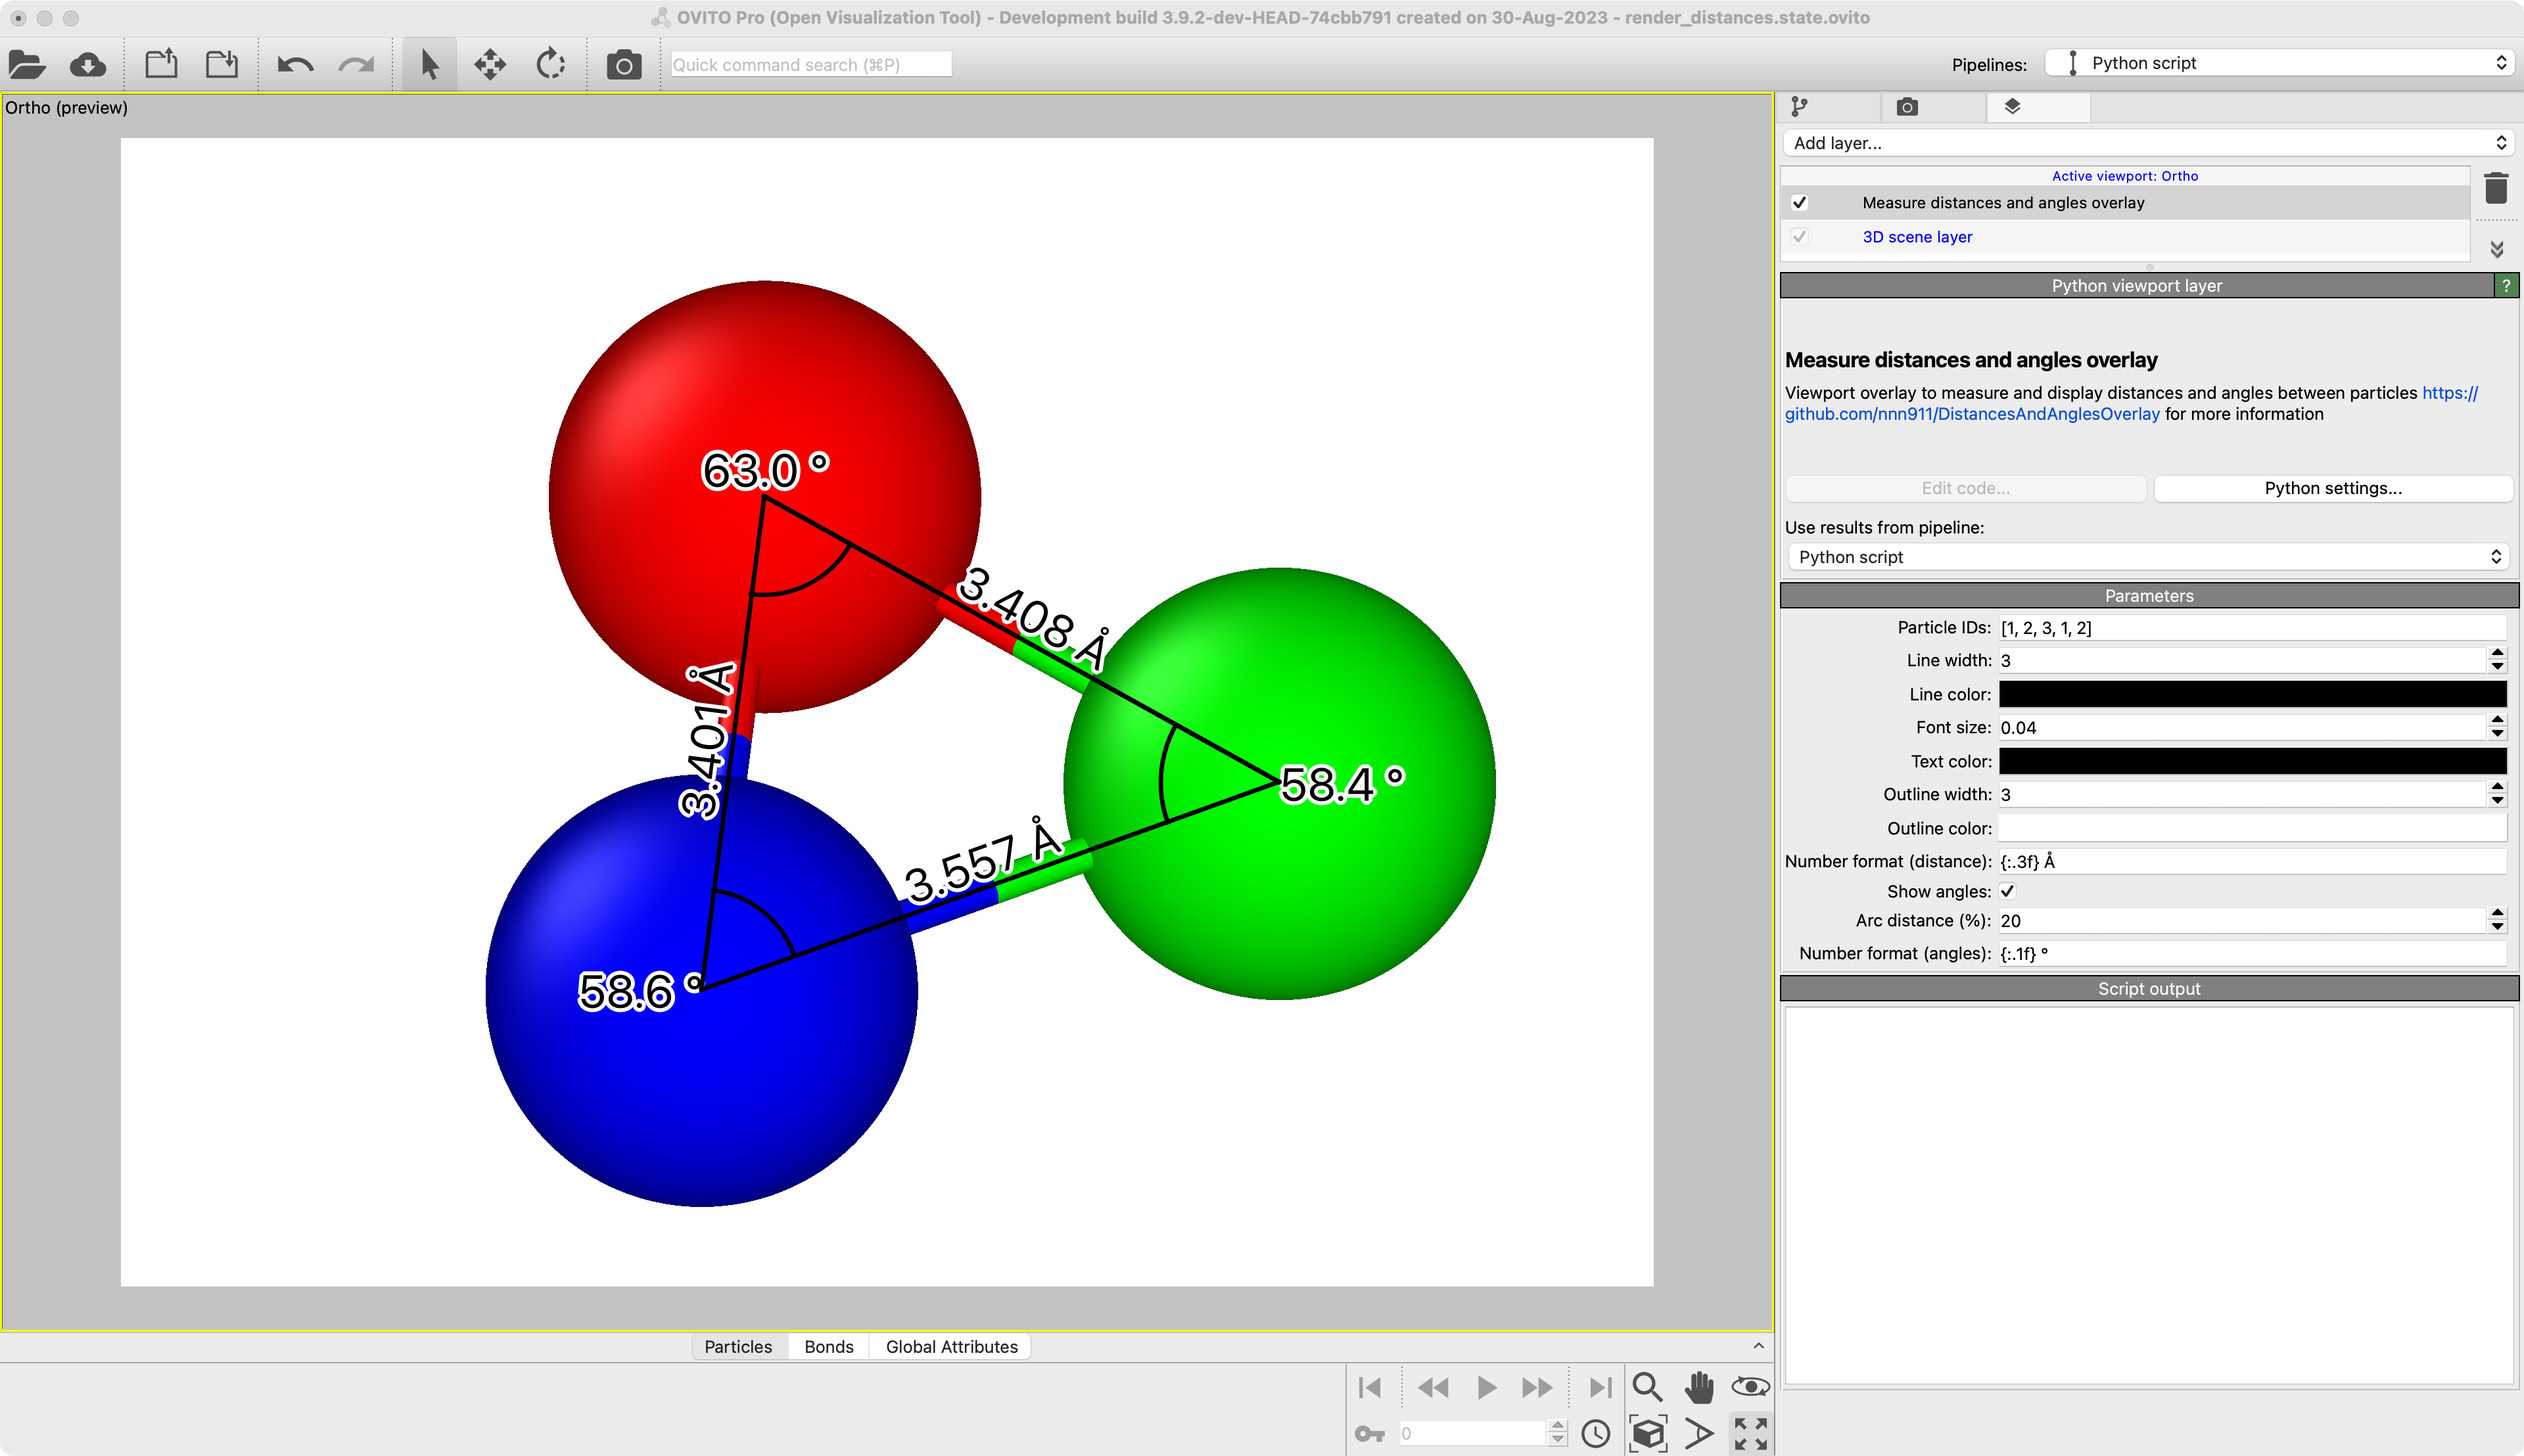
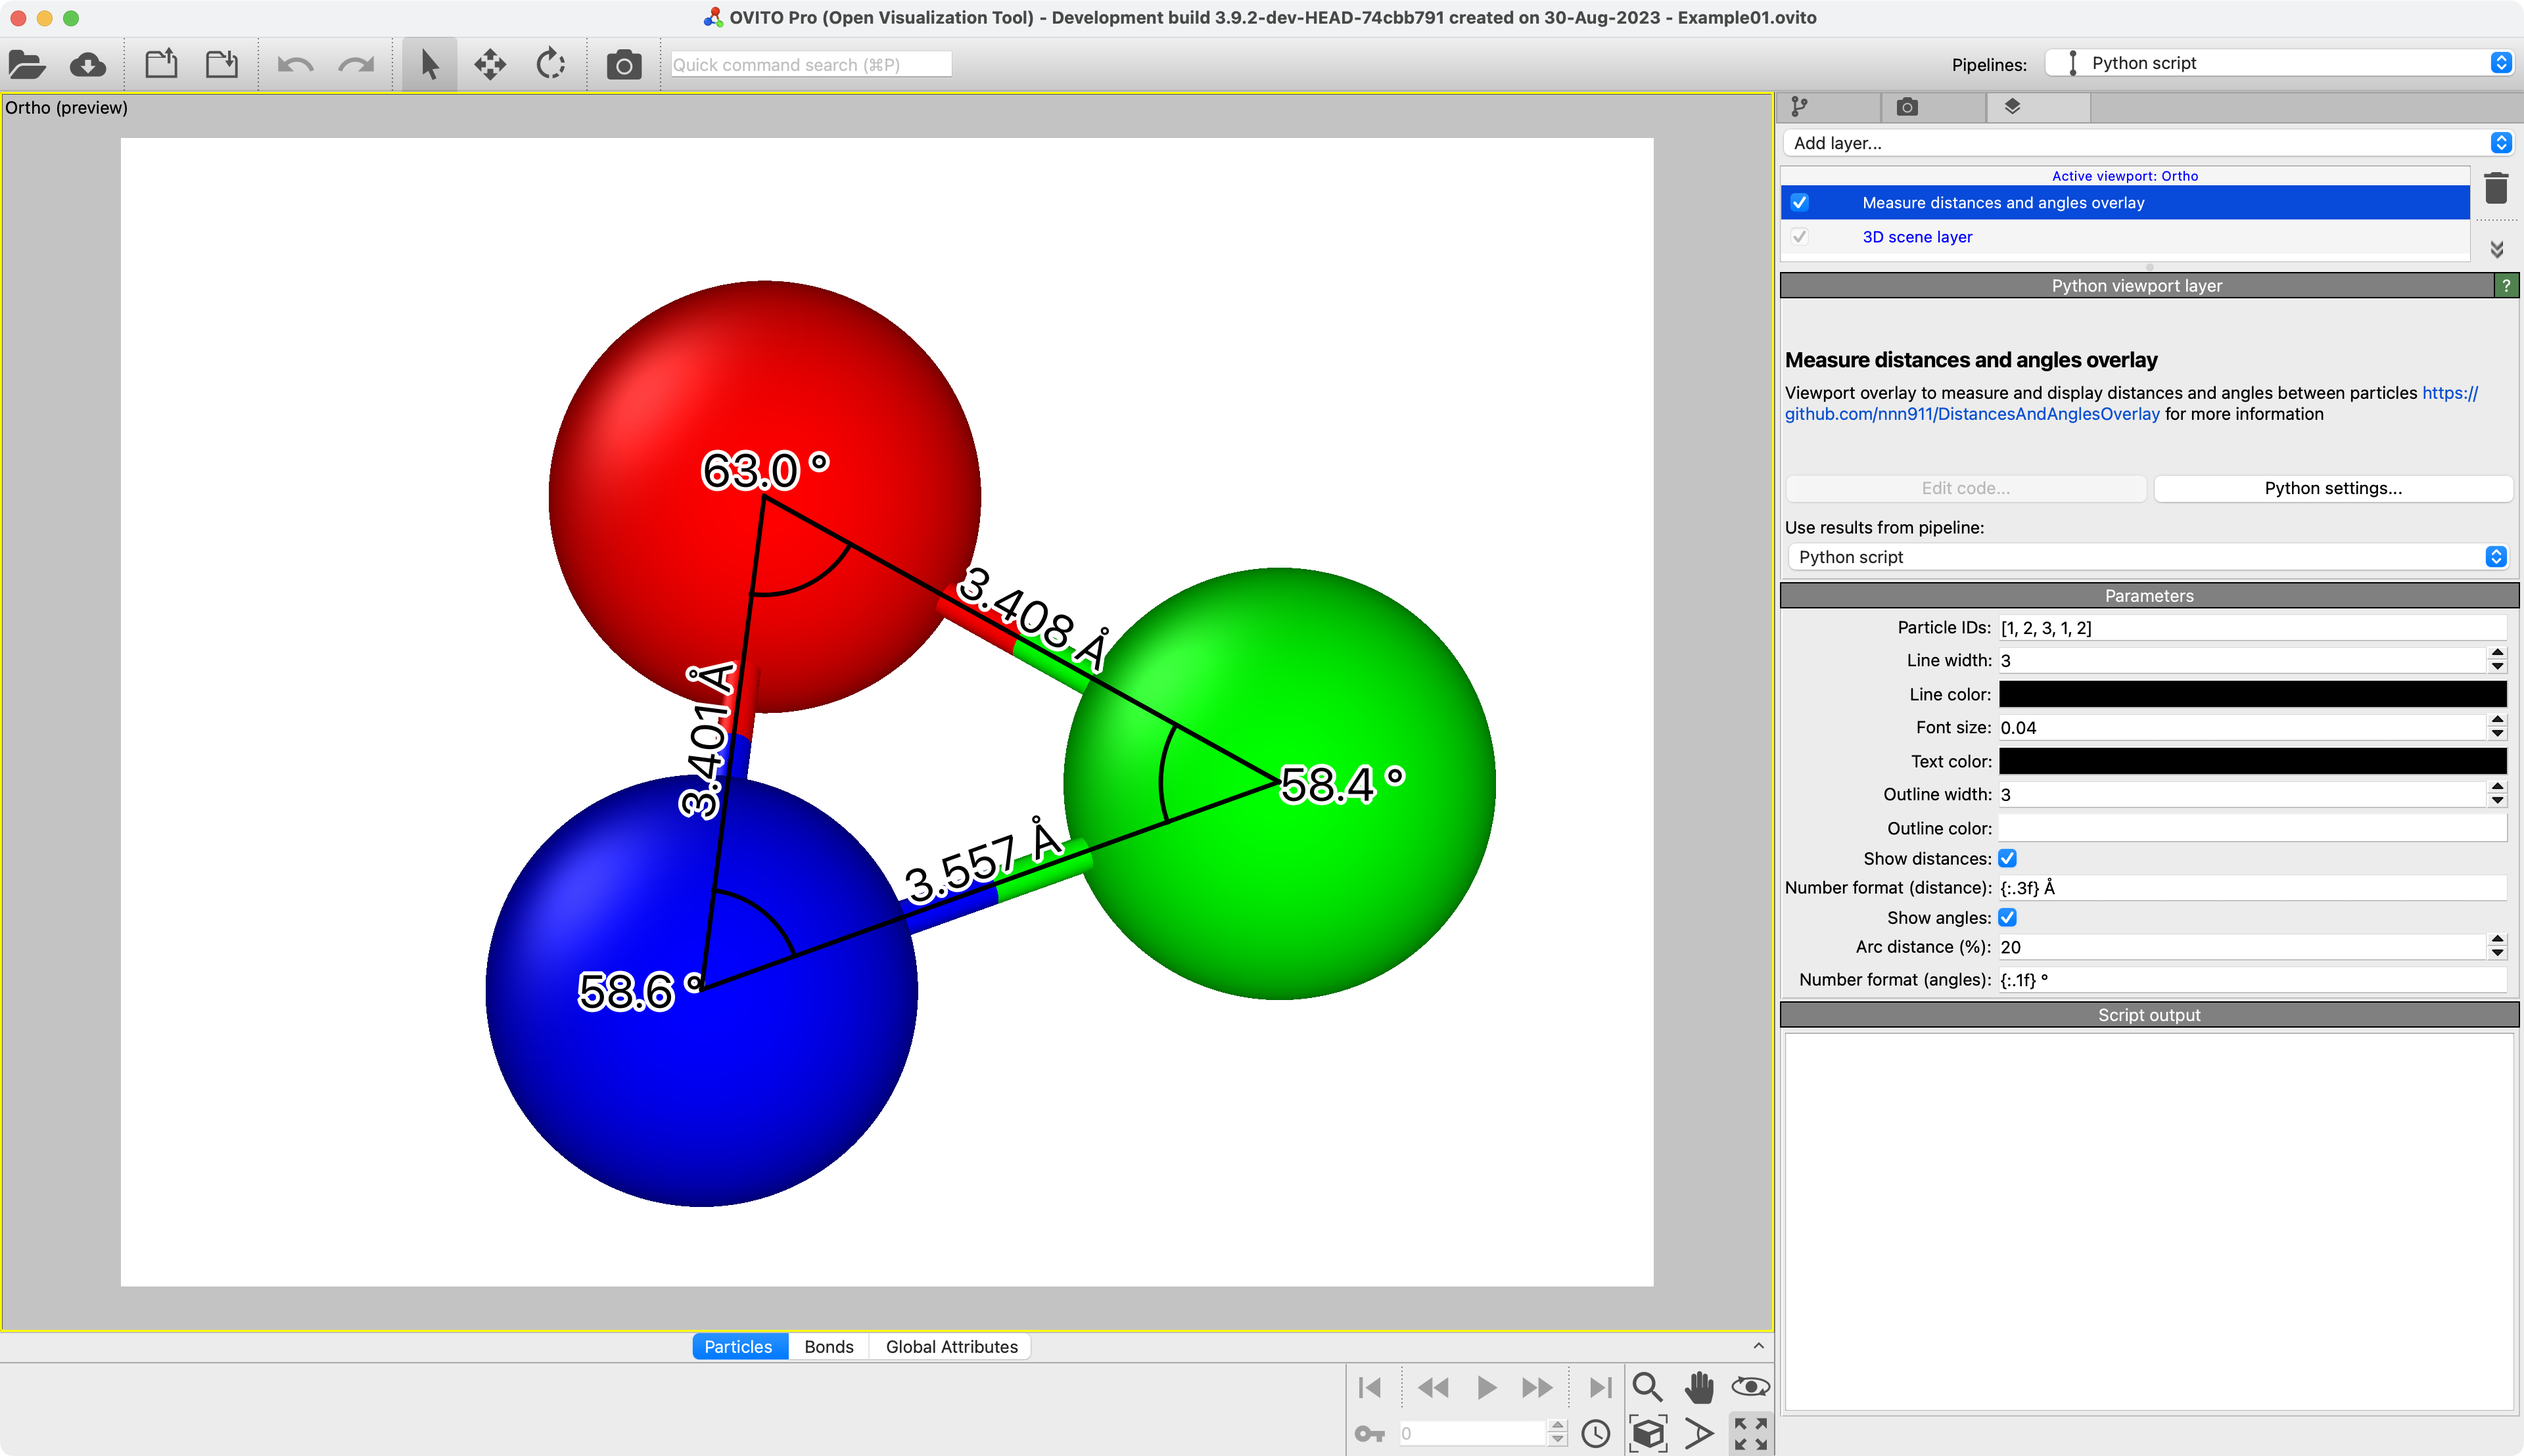
Add "Show distances" toggle

diff --git a/src/MeasureDistancesAndAnglesOverlay/__init__.py b/src/MeasureDistancesAndAnglesOverlay/__init__.py
@@ -23,6 +23,7 @@ class MeasureDistancesAndAnglesOverlay(ViewportOverlayInterface):
     text_color = ColorTrait((0.0, 0.0, 0.0), label="Text color")
     outline_width = Range(low=0, high=None, value=0, label="Outline width")
     outline_color = ColorTrait((1.0, 1.0, 1.0), label="Outline color")
+    show_distances = Bool(True, label="Show distances")
     distance_label_format = Str("{:.3f}", label="Number format (distance)")
     # show_background = Bool(False, label="Background")
     # background_color = ColorTrait(value=(0, 0, 0), label="Background color")
@@ -80,16 +81,17 @@ class MeasureDistancesAndAnglesOverlay(ViewportOverlayInterface):
         #         ),
         #         "south west",
         #     )
-        canvas.draw_text(
-            self.distance_label_format.format(np.linalg.norm(dist)),
-            font_size=self.font_size,
-            color=self.text_color,
-            outline_width=self.outline_width,
-            outline_color=self.outline_color,
-            pos=text_pos,
-            anchor="south",
-            rotation=text_angle,
-        )
+        if self.show_distances:
+            canvas.draw_text(
+                self.distance_label_format.format(np.linalg.norm(dist)),
+                font_size=self.font_size,
+                color=self.text_color,
+                outline_width=self.outline_width,
+                outline_color=self.outline_color,
+                pos=text_pos,
+                anchor="south",
+                rotation=text_angle,
+            )
 
         screen_pos_painter = np.copy(screen_pos_proj)
         screen_pos_painter[:, 1] = 1 - screen_pos_proj[:, 1]

diff --git a/README.md b/README.md
@@ -11,6 +11,7 @@ TBD
 - "Font size" | `font_size`: Font size for all text labels. Default = 0.05.
 - "Text color" | `text_color`: Text color for all texts. Default = (0, 0, 0)
 - "Outline width" | `outline_width`: Width (in pixel) of the text outline. A width of `0` corresponds to no outline. Default = 0.
+- "Show distances" | `show_distances`: Show distances between particles. Default = True.
 - "Number format (distance)" | `distance_label_format`: Format specifier for the particle-particle distances. Default = "{:.3f}".
 - "Show angles" | `show_angles`: Show angles between particles. Default = True.
 - "Arc distance (%)" | `arc_distance`: Distance (in % of the particle-particle distance) in which the arc indicating the angles is displayed. Default = 20.
@@ -18,7 +19,8 @@ TBD
 
 ## Example
 
-![Measure Distances And Angles Overlay](examples/Example01.png)
+![Measure Distances And Angles Overlay 01](examples/Example01.png)
+![Measure Distances And Angles Overlay 02](examples/Example02.png)
 
 ## Installation
 - OVITO Pro [integrated Python interpreter](https://docs.ovito.org/python/introduction/installation.html#ovito-pro-integrated-interpreter):
